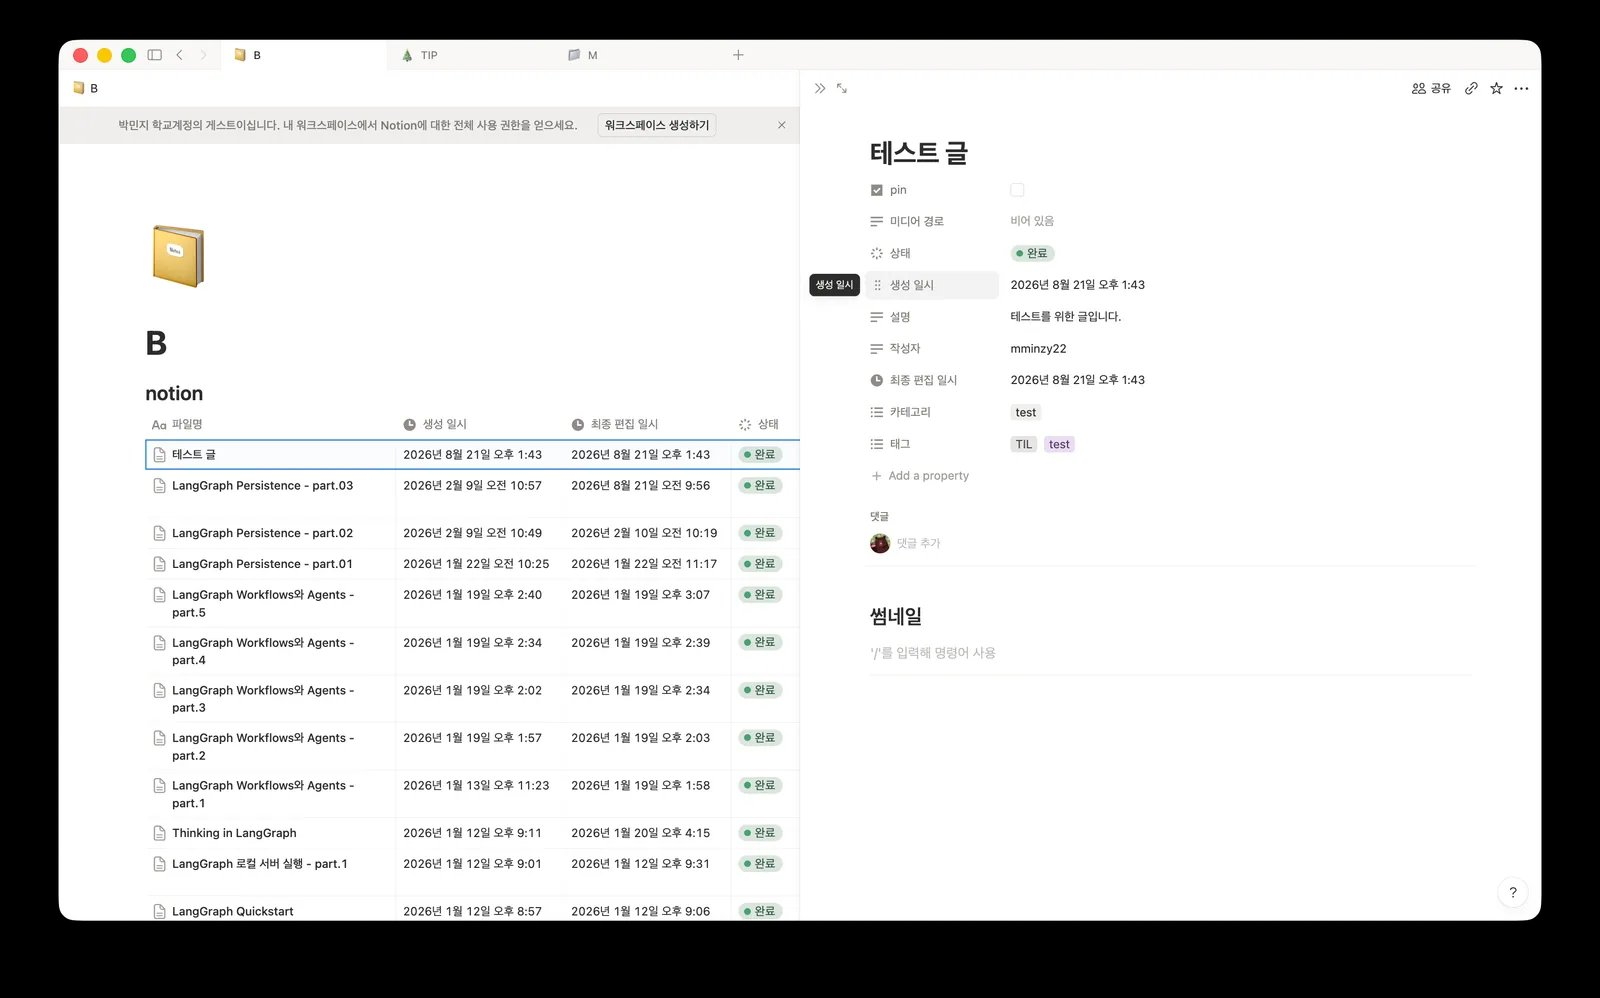
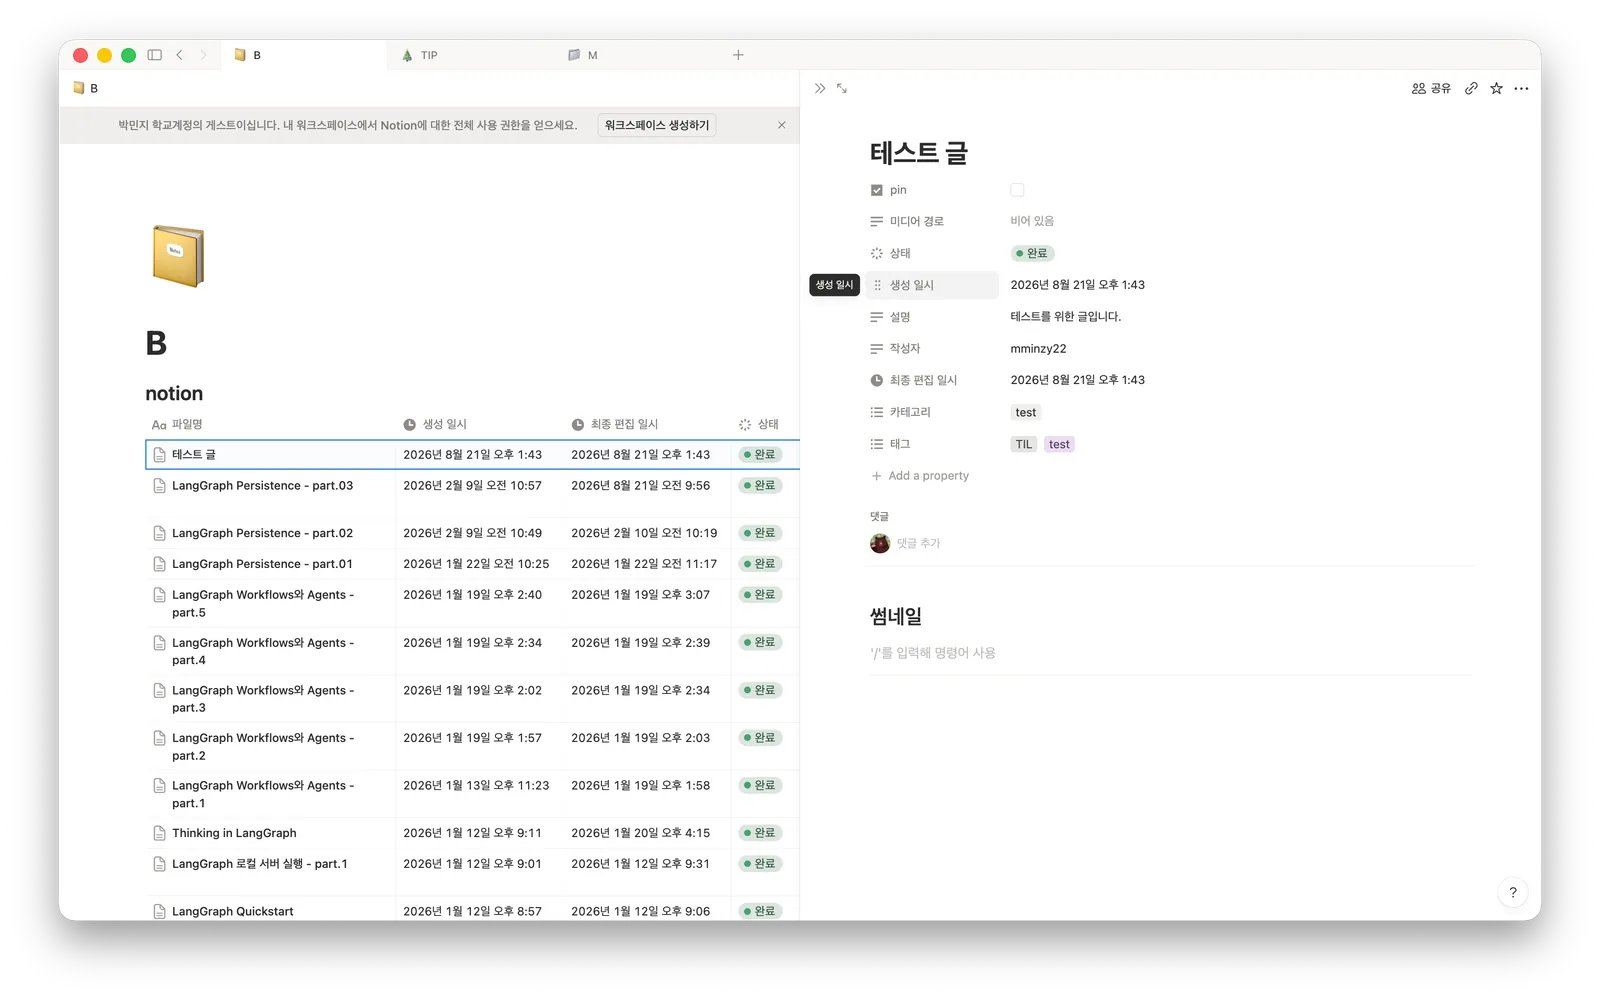
fix: 탭 구조를 컨테이너 기준으로 바로잡고 썸네일 투명 배경과 북마크 처리 수정

Changed region(s): [[0.0, 0.0, 1.0, 1.0]]

diff --git a/scripts/notion-postprocess.js b/scripts/notion-postprocess.js
@@ -236,7 +236,11 @@ async function toShareableThumbnail(mediaDir, filename) {
 
   try {
     if (!existsSync(jpegPath)) {
-      await sharp(join(mediaDir, filename)).jpeg({ quality: 85 }).toFile(jpegPath);
+      // JPEG 는 투명도를 못 담는다. sharp 기본 채움색이 검정이라 흰색을 지정한다.
+      await sharp(join(mediaDir, filename))
+        .flatten({ background: '#ffffff' })
+        .jpeg({ quality: 85 })
+        .toFile(jpegPath);
     }
     return jpegName;
   } catch (error) {
@@ -355,10 +359,45 @@ const metaPatternReversed = (property) =>
   );
 
 /**
+ * 유튜브 링크면 oEmbed 로 제목·채널·썸네일을 받아온다.
+ * 유튜브가 아니거나 실패하면 null 을 돌려 일반 경로로 넘긴다.
+ */
+async function fetchYoutubePreview(url) {
+  let host;
+  try {
+    host = new URL(url).hostname.replace(/^www\./, '');
+  } catch {
+    return null;
+  }
+  if (!/^(youtu\.be|(m\.)?youtube\.com|youtube-nocookie\.com)$/.test(host)) return null;
+
+  try {
+    const endpoint = `https://www.youtube.com/oembed?url=${encodeURIComponent(url)}&format=json`;
+    const response = await fetch(endpoint, { signal: AbortSignal.timeout(OG_TIMEOUT_MS) });
+    if (!response.ok) return null;
+
+    const data = await response.json();
+    return {
+      title: data.title || 'YouTube',
+      description: data.author_name ? `${data.author_name} · YouTube` : null,
+      image: data.thumbnail_url || null,
+      favicon: 'https://www.youtube.com/favicon.ico',
+      site: 'youtube.com'
+    };
+  } catch {
+    return null;
+  }
+}
+
+/**
  * 링크의 Open Graph 정보를 읽어 카드에 쓸 값을 돌려준다.
  * 실패하면 null 을 돌려주고 호출부가 단순 링크로 대체한다.
  */
 export async function fetchLinkPreview(url) {
+  // 유튜브는 페이지를 긁어도 메타 정보를 주지 않는다. 공식 oEmbed 를 쓴다.
+  const youtube = await fetchYoutubePreview(url);
+  if (youtube) return youtube;
+
   const response = await fetch(url, {
     headers: { 'user-agent': OG_USER_AGENT, accept: 'text/html,*/*' },
     redirect: 'follow',
@@ -515,77 +554,12 @@ export function fixIndentedBlocks(markdown) {
   return out.join('\n');
 }
 
-const TAB_OPEN = /^<!--notion-tab:(.*)-->$/;
-const TAB_CLOSE = /^<!--\/notion-tab-->$/;
-
 function escapeHtml(text) {
   return text
     .replace(/&/g, '&amp;')
     .replace(/</g, '&lt;')
     .replace(/>/g, '&gt;')
     .replace(/"/g, '&quot;');
-}
-
-/**
- * 변환기가 남긴 탭 표시를 찾아 연속된 것끼리 하나의 탭 묶음으로 만든다.
- *
- * 라디오 버튼과 라벨을 앞에 모으고 패널을 뒤에 두면
- * CSS 만으로 탭 전환이 되어 자바스크립트가 필요 없다.
- */
-export function groupTabs(markdown) {
-  const lines = markdown.split('\n');
-  const out = [];
-  let group = 0;
-  let i = 0;
-
-  while (i < lines.length) {
-    if (!TAB_OPEN.test(lines[i])) {
-      out.push(lines[i]);
-      i++;
-      continue;
-    }
-
-    const tabs = [];
-    while (i < lines.length) {
-      // 탭 사이의 빈 줄은 건너뛰되, 뒤에 탭이 없으면 멈춘다
-      let peek = i;
-      while (peek < lines.length && lines[peek].trim() === '') peek++;
-      if (peek >= lines.length || !TAB_OPEN.test(lines[peek])) break;
-
-      const title = lines[peek].match(TAB_OPEN)[1];
-      const body = [];
-      i = peek + 1;
-      while (i < lines.length && !TAB_CLOSE.test(lines[i])) {
-        body.push(lines[i]);
-        i++;
-      }
-      i++; // 닫는 표시 건너뛰기
-      tabs.push({ title, body: body.join('\n').trim() });
-    }
-
-    if (tabs.length === 0) continue;
-
-    group++;
-    const name = `notion-tabs-${group}`;
-    const head = tabs.map(
-      (tab, index) =>
-        `<input type="radio" name="${name}" id="${name}-${index}"${index === 0 ? ' checked="checked"' : ''} />\n` +
-        `<label for="${name}-${index}">${escapeHtml(tab.title)}</label>`
-    );
-    const panels = tabs.map(
-      (tab) => `<div class="notion-tab-panel" markdown="1">\n\n${tab.body}\n\n</div>`
-    );
-
-    out.push(
-      `<div class="notion-tabs" markdown="1">`,
-      ...head,
-      ...panels,
-      `</div>`,
-      ''
-    );
-  }
-
-  return out.join('\n');
 }
 
 /**
@@ -615,7 +589,7 @@ export async function postProcess(markdown, { mediaDir, mediaSubpath }) {
   const audio = await processEmbeddedMedia(fixToggles(media.markdown), { mediaDir });
 
   const { markdown: withoutThumb, thumbnail } = await extractThumbnail(audio.markdown, { mediaDir });
-  const body = fixIndentedBlocks(groupTabs(withoutThumb));
+  const body = fixIndentedBlocks(withoutThumb);
 
   return {
     markdown: body,

diff --git a/scripts/notion-sync.js b/scripts/notion-sync.js
@@ -34,30 +34,52 @@ if (!NOTION_TOKEN || !NOTION_DATABASE_ID) {
 const notion = new Client({ auth: NOTION_TOKEN });
 const n2m = new NotionToMarkdown({ notionClient: notion });
 
+function escapeHtml(text) {
+  return String(text)
+    .replace(/&/g, '&amp;')
+    .replace(/</g, '&lt;')
+    .replace(/>/g, '&gt;')
+    .replace(/"/g, '&quot;');
+}
+
+let tabGroupSeq = 0;
+
 // Notion 탭은 공개 API 에 정식 타입이 없어 'tab' 으로만 온다.
-// 기본 동작은 내용을 들여쓰기로 뱉어 마크다운 코드블록으로 깨진다.
-// 여기서는 표시만 남기고, 연속된 탭을 하나로 묶는 일은 후처리가 맡는다.
+// 이 블록은 개별 탭이 아니라 탭 묶음 전체의 컨테이너이고,
+// 자식 하나하나가 탭이다(제목은 자식의 rich_text, 내용은 그 자식의 하위 블록).
 n2m.setCustomTransformer('tab', async (block) => {
   try {
-    const data = block.tab || {};
-    const title =
-      (data.rich_text || data.title || [])
-        .map((item) => item?.plain_text ?? '')
-        .join('')
-        .trim() || '탭';
+    const { results } = await notion.blocks.children.list({
+      block_id: block.id,
+      page_size: 100
+    });
+    if (results.length === 0) return false;
 
-    let body = '';
-    if (block.has_children) {
-      const mdBlocks = await n2m.pageToMarkdown(block.id);
-      body = (n2m.toMarkdownString(mdBlocks).parent || '').trim();
+    const group = `notion-tabs-${++tabGroupSeq}`;
+    const heads = [];
+    const panels = [];
+
+    for (const [index, child] of results.entries()) {
+      const data = child[child.type] || {};
+      const title =
+        (data.rich_text || []).map((item) => item.plain_text).join('').trim() ||
+        `탭 ${index + 1}`;
+
+      let body = '';
+      if (child.has_children) {
+        const mdBlocks = await n2m.pageToMarkdown(child.id);
+        body = (n2m.toMarkdownString(mdBlocks).parent || '').trim();
+      }
+
+      const checked = index === 0 ? ' checked="checked"' : '';
+      heads.push(
+        `<input type="radio" name="${group}" id="${group}-${index}"${checked} />\n` +
+          `<label for="${group}-${index}">${escapeHtml(title)}</label>`
+      );
+      panels.push(`<div class="notion-tab-panel" markdown="1">\n\n${body}\n\n</div>`);
     }
 
-    if (!body) return false;
-
-    // 주석 문법을 깨뜨리지 않도록 제목을 정리한다
-    const safeTitle = title.replace(/-->/g, '→').replace(/[\r\n]+/g, ' ');
-
-    return `<!--notion-tab:${safeTitle}-->\n${body}\n<!--/notion-tab-->\n\n`;
+    return `<div class="notion-tabs" markdown="1">\n${heads.join('\n')}\n${panels.join('\n')}\n</div>\n\n`;
   } catch (error) {
     console.warn(`   ⚠  탭 변환 실패, 기본 처리로 대체: ${error.message}`);
     return false;
@@ -68,10 +90,6 @@ n2m.setCustomTransformer('tab', async (block) => {
 n2m.setCustomTransformer('bookmark', async (block) => {
   const content = block.bookmark;
   if (!content?.url) return false;
-
-  // 동영상 링크를 북마크로 넣은 경우에는 재생기가 낫다
-  const embed = parseVideoEmbed(content.url);
-  if (embed) return `{% include embed/${embed.platform}.html id='${embed.id}' %}\n\n`;
 
   const caption = (content.caption || []).map((item) => item.plain_text).join('').trim();
   const fallback = `[${caption || content.url}](${content.url})\n\n`;
